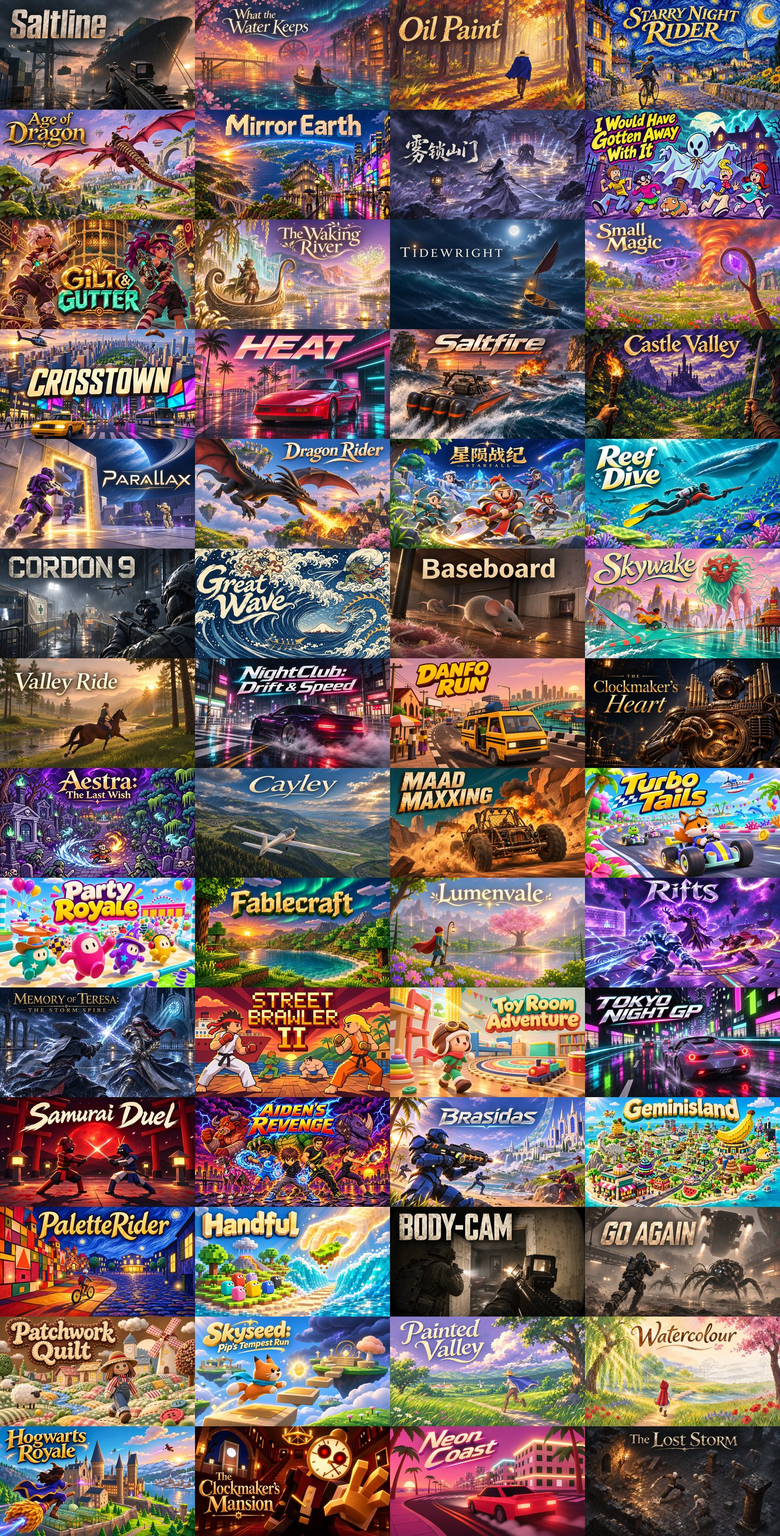
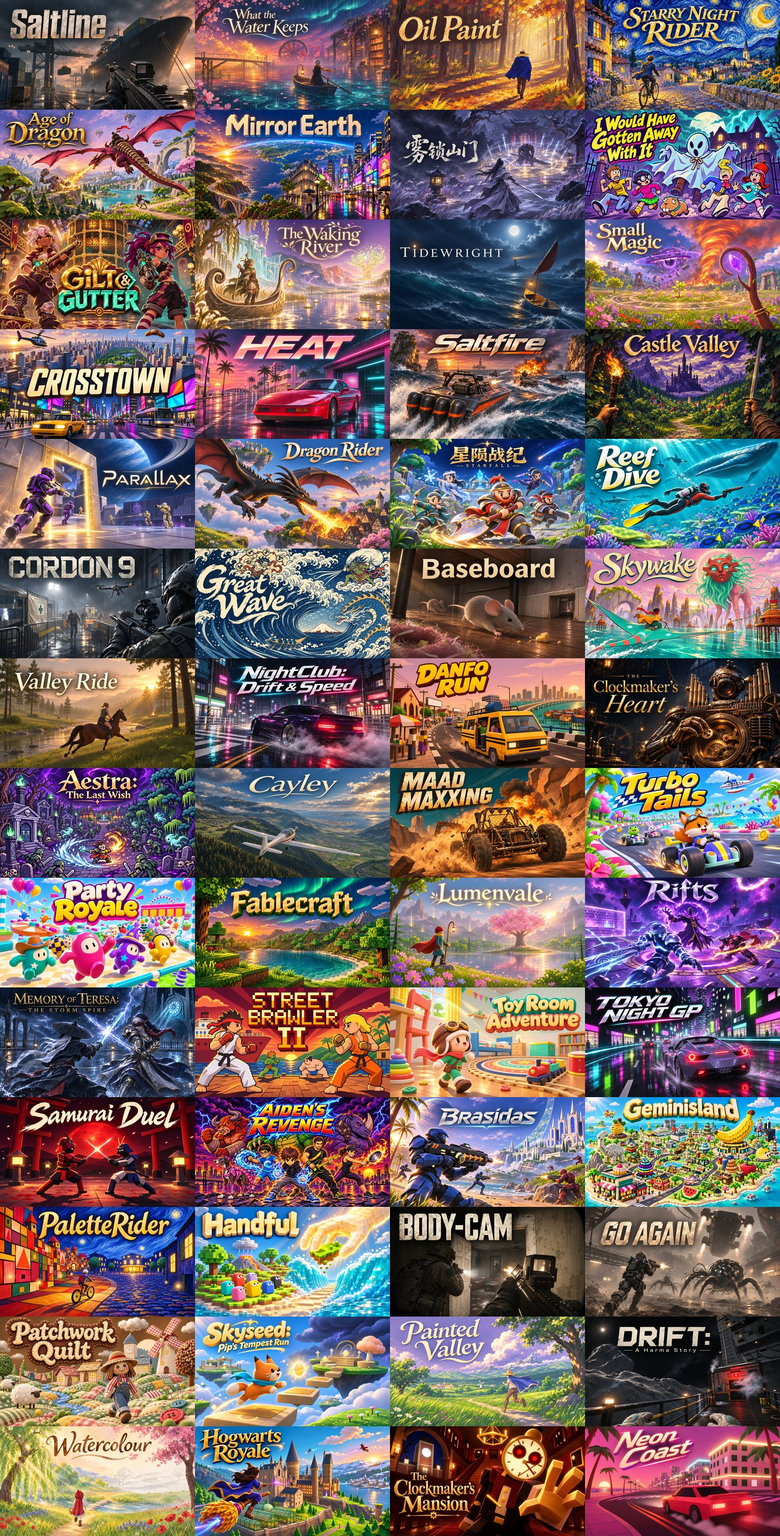
Add DRIFT: A Harma Story, a first-person 3D space-station mystery made with Claude Fable 5.2 and Opus 5.5 (playable in the browser)

Changed region(s): [[0.0, 0.84, 1.0, 1.0]]

diff --git a/README.md b/README.md
@@ -1,6 +1,6 @@
 # Awesome Claude Fable Games
 
-[![Awesome](https://awesome.re/badge.svg)](https://awesome.re) ![Games](https://img.shields.io/badge/games-56-8a5cf6) ![Playable](https://img.shields.io/badge/playable_in_browser-45-22c55e) ![Prompts](https://img.shields.io/badge/verbatim_prompts-5-f59e0b) [![License: MIT](https://img.shields.io/badge/license-MIT-blue)](LICENSE)
+[![Awesome](https://awesome.re/badge.svg)](https://awesome.re) ![Games](https://img.shields.io/badge/games-57-8a5cf6) ![Playable](https://img.shields.io/badge/playable_in_browser-46-22c55e) ![Prompts](https://img.shields.io/badge/verbatim_prompts-5-f59e0b) [![License: MIT](https://img.shields.io/badge/license-MIT-blue)](LICENSE)
 
 ### ▶ [Play all of these in your browser → vibegamer.io](https://vibegamer.io?utm_source=github&utm_medium=readme&utm_campaign=awesome-claude-fable-games)
 
@@ -8,7 +8,7 @@
 
 A curated list of **games made with AI coding models**, most of them with Claude Fable 5.2, Anthropic's model released on November 9, 2026: browser games you can play right now, Unreal and Roblox projects, and one-prompt experiments. Each game names the model its maker says they used. Every game is credited to its maker and linked to the post where they shared it. Where the maker published the prompt, it's copied here word for word.
 
-**56 games · 45 playable in the browser · 5 with prompts** · Updated 2026-11-19
+**57 games · 46 playable in the browser · 5 with prompts** · Updated 2026-11-20
 
 Most games also have a page on **[vibegamer.io](https://vibegamer.io?utm_source=github&utm_medium=readme&utm_campaign=awesome-claude-fable-games)** with its trailer, screenshots and a play button.
 
@@ -79,6 +79,7 @@ Sorted by our score, then by likes on the original post.
 | <a href="#patchwork-quilt"><img src="assets/covers/patchwork-quilt.jpg" width="160" alt="Patchwork Quilt cover"></a> | **[Patchwork Quilt](#patchwork-quilt)** | [Blendi](https://x.com/BlendiByl) | Claude Fable 5.2 | [▶ Play URL](https://patch.gg/blendi/patchwork-quilt) | [page](https://vibegamer.io/game/patchwork-quilt?utm_source=github&utm_medium=readme&utm_campaign=awesome-claude-fable-games) | [X](https://x.com/BlendiByl/status/2120746541636047347) |  |  | 7.6/10 |
 | <a href="#skyseed-pips-tempest-run"><img src="assets/covers/skyseed-pips-tempest-run.jpg" width="160" alt="Skyseed: Pip's Tempest Run cover"></a> | **[Skyseed: Pip's Tempest Run](#skyseed-pips-tempest-run)** | [Sahil Panhotra](https://x.com/SahilPanhotra) | Gemini 4 Hydrogen | [▶ Play URL](https://01a1b677-97ba-7006-a384-e83b3e5793db.arena.site/) | [page](https://vibegamer.io/game/skyseed-pips-tempest-run?utm_source=github&utm_medium=readme&utm_campaign=awesome-claude-fable-games) | [X](https://x.com/SahilPanhotra/status/2119102771173769262) | 60 |  | 7.5/10 |
 | <a href="#painted-valley"><img src="assets/covers/painted-valley.jpg" width="160" alt="Painted Valley cover"></a> | **[Painted Valley](#painted-valley)** | [Blendi](https://x.com/BlendiByl) | Claude Fable 5.2 | [▶ Play URL](https://patch.gg/blendi/painted-valley) | [page](https://vibegamer.io/game/painted-valley?utm_source=github&utm_medium=readme&utm_campaign=awesome-claude-fable-games) | [X](https://x.com/BlendiByl/status/2120694003230560585) |  |  | 7.5/10 |
+| <a href="#drift-a-harma-story"><img src="assets/covers/drift-a-harma-story.jpg" width="160" alt="DRIFT: A Harma Story cover"></a> | **[DRIFT: A Harma Story](#drift-a-harma-story)** | [Rencrypta](https://x.com/Rencrypta) | Claude Fable 5.2 | [▶ Play URL](https://drift.harma.cc/en) | [page](https://vibegamer.io/game/drift-a-harma-story?utm_source=github&utm_medium=readme&utm_campaign=awesome-claude-fable-games) | [X](https://x.com/Rencrypta/status/2123527249064321465) | 18 |  | 7.4/10 |
 | <a href="#watercolour"><img src="assets/covers/watercolour.jpg" width="160" alt="Watercolour cover"></a> | **[Watercolour](#watercolour)** | [Blendi](https://x.com/BlendiByl) | not stated | [▶ Play URL](https://patch.gg/blendi/watercolour) | [page](https://vibegamer.io/game/watercolour?utm_source=github&utm_medium=readme&utm_campaign=awesome-claude-fable-games) | [X](https://x.com/BlendiByl/status/2121177279451844707) |  |  | 7.4/10 |
 | <a href="#hogwarts-royale"><img src="assets/covers/hogwarts-royale.jpg" width="160" alt="Hogwarts Royale cover"></a> | **[Hogwarts Royale](#hogwarts-royale)** | [Matt Shumer](https://x.com/mattshumer_) | Claude Fable 5.2 | [▶ Play URL](https://www.spawn.co/@mattshumer/hogwarts-royale) | [page](https://vibegamer.io/game/hogwarts-royale?utm_source=github&utm_medium=readme&utm_campaign=awesome-claude-fable-games) | [X](https://x.com/mattshumer_/status/2119872098306810226) | 307 | ✓ | 7/10 |
 | <a href="#the-clockmakers-mansion"><img src="assets/covers/the-clockmakers-mansion.jpg" width="160" alt="The Clockmaker's Mansion cover"></a> | **[The Clockmaker's Mansion](#the-clockmakers-mansion)** | [@mihawkxxxxx](https://x.com/mihawkxxxxx) | Claude Fable 5.2 | video only | [page](https://vibegamer.io/game/the-clockmakers-mansion?utm_source=github&utm_medium=readme&utm_campaign=awesome-claude-fable-games) | [X](https://x.com/mihawkxxxxx/status/2119909865296699749) | 11 |  | 7/10 |
@@ -1036,6 +1037,24 @@ Run through a Ghibli-inspired painted valley of wind-swept grass, distant villag
 - **Painted Valley on VibeGamer (trailer, screenshots, reviews):** [vibegamer.io/game/painted-valley](https://vibegamer.io/game/painted-valley?utm_source=github&utm_medium=readme&utm_campaign=awesome-claude-fable-games)
 
 <sub>Our score: 7.5/10 for visuals and polish.</sub>
+
+### DRIFT: A Harma Story
+<a id="drift-a-harma-story"></a>
+
+<a href="https://vibegamer.io/game/drift-a-harma-story?utm_source=github&utm_medium=readme&utm_campaign=awesome-claude-fable-games"><img src="assets/covers/drift-a-harma-story.jpg" alt="DRIFT: A Harma Story: cover art" width="100%"></a>
+
+A first-person 3D mystery on a dead mining station in the asteroid belt: silence the beacon, then find out why the crew never left. Made with Claude Fable 5.2 and Opus 5.5.
+
+<p><img src="https://cdn.vibegamer.io/submissions/c6d4f510-3133-4e5d-9de3-ff462ac4af4b-drift-a-harma-story-shot-1.jpg" width="32%" alt="DRIFT: A Harma Story gameplay screenshot"> <img src="https://cdn.vibegamer.io/submissions/393142c8-c1c0-4d06-af61-6f2915563f66-drift-a-harma-story-shot-2.jpg" width="32%" alt="DRIFT: A Harma Story gameplay screenshot"> <img src="https://cdn.vibegamer.io/submissions/286b46de-4a3c-410f-bc7a-5f8172a08207-drift-a-harma-story-shot-3.jpg" width="32%" alt="DRIFT: A Harma Story gameplay screenshot"></p>
+
+- **Made by:** Rencrypta ([@Rencrypta](https://x.com/Rencrypta))
+- **Model:** Claude Fable 5.2
+- **DRIFT: A Harma Story game URL:** https://drift.harma.cc/en
+- **Original post:** https://x.com/Rencrypta/status/2123527249064321465 (18 likes, checked November 20, 2026)
+- **Tags:** 3D, Adventure, Puzzle, Story, Space
+- **DRIFT: A Harma Story on VibeGamer (trailer, screenshots, reviews):** [vibegamer.io/game/drift-a-harma-story](https://vibegamer.io/game/drift-a-harma-story?utm_source=github&utm_medium=readme&utm_campaign=awesome-claude-fable-games)
+
+<sub>Our score: 7.4/10 for visuals and polish.</sub>
 
 ### Watercolour
 <a id="watercolour"></a>
